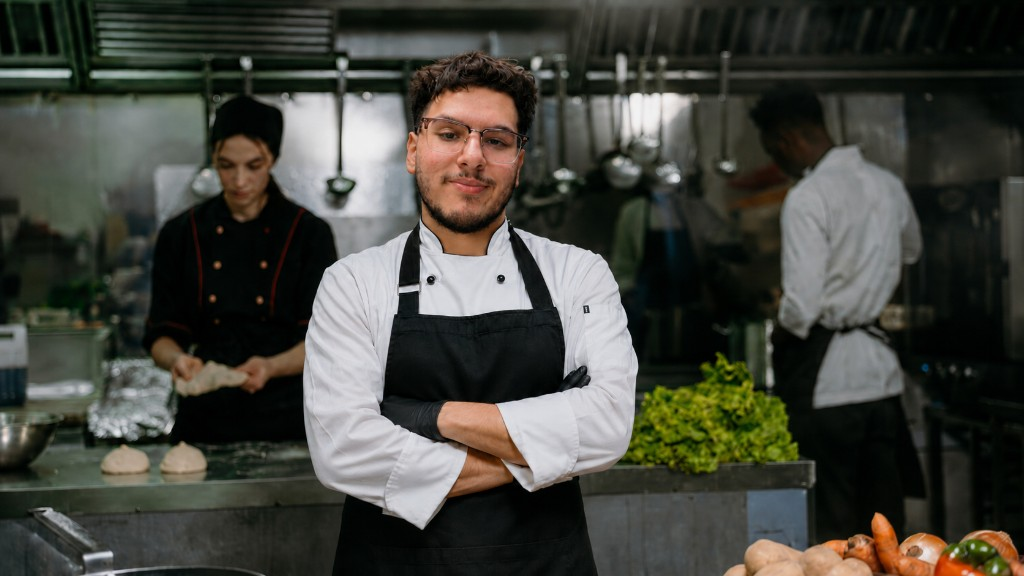
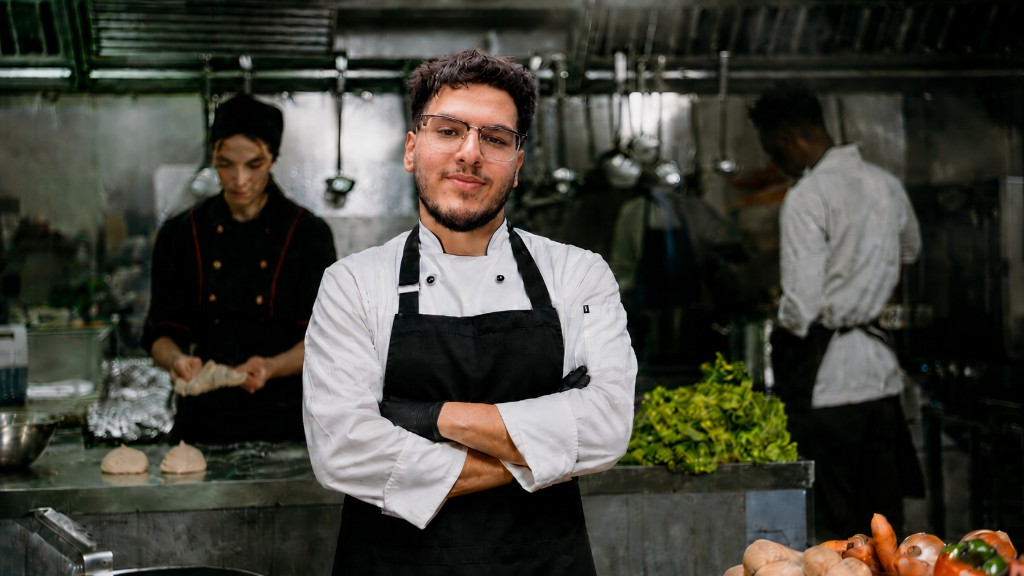
reorder course card — dish name above label

diff --git a/web/components/experience/CourseCard.tsx b/web/components/experience/CourseCard.tsx
@@ -297,13 +297,13 @@ export default function CourseCard({ card, guest, sessionId, dessertRevealed = f
         }} />
       )}
 
-      {/* Course label */}
-      <motion.p {...item(0)} style={labelStyle}>{course.label}</motion.p>
-
       {/* Dish name */}
       <motion.h1 {...headingAnim} style={headingStyle}>
         {isFinish && !dessertRevealed ? '???' : course.dish}
       </motion.h1>
+
+      {/* Course label */}
+      <motion.p {...item(0)} style={labelStyle}>{course.label}</motion.p>
 
       {/* Gold divider with shimmer */}
       <motion.div

diff --git a/supabase/functions/skip-card/index.ts b/supabase/functions/skip-card/index.ts
@@ -8,15 +8,18 @@ const CARD_SEQUENCE = [
   'intermission-1',
   'bite',
   'intermission-2',
-  'cut',
+  'cleanse',
+  'agua',
   'intermission-3',
+  'cut',
+  'intermission-4',
   'finish',
   'gallery',
 ] as const
 
 type Card = (typeof CARD_SEQUENCE)[number]
 
-const INTERMISSION_CARDS = new Set<Card>(['intermission-1', 'intermission-2', 'intermission-3'])
+const INTERMISSION_CARDS = new Set<Card>(['intermission-1', 'intermission-2', 'intermission-3', 'intermission-4'])
 
 /**
  * POST /functions/v1/skip-card
